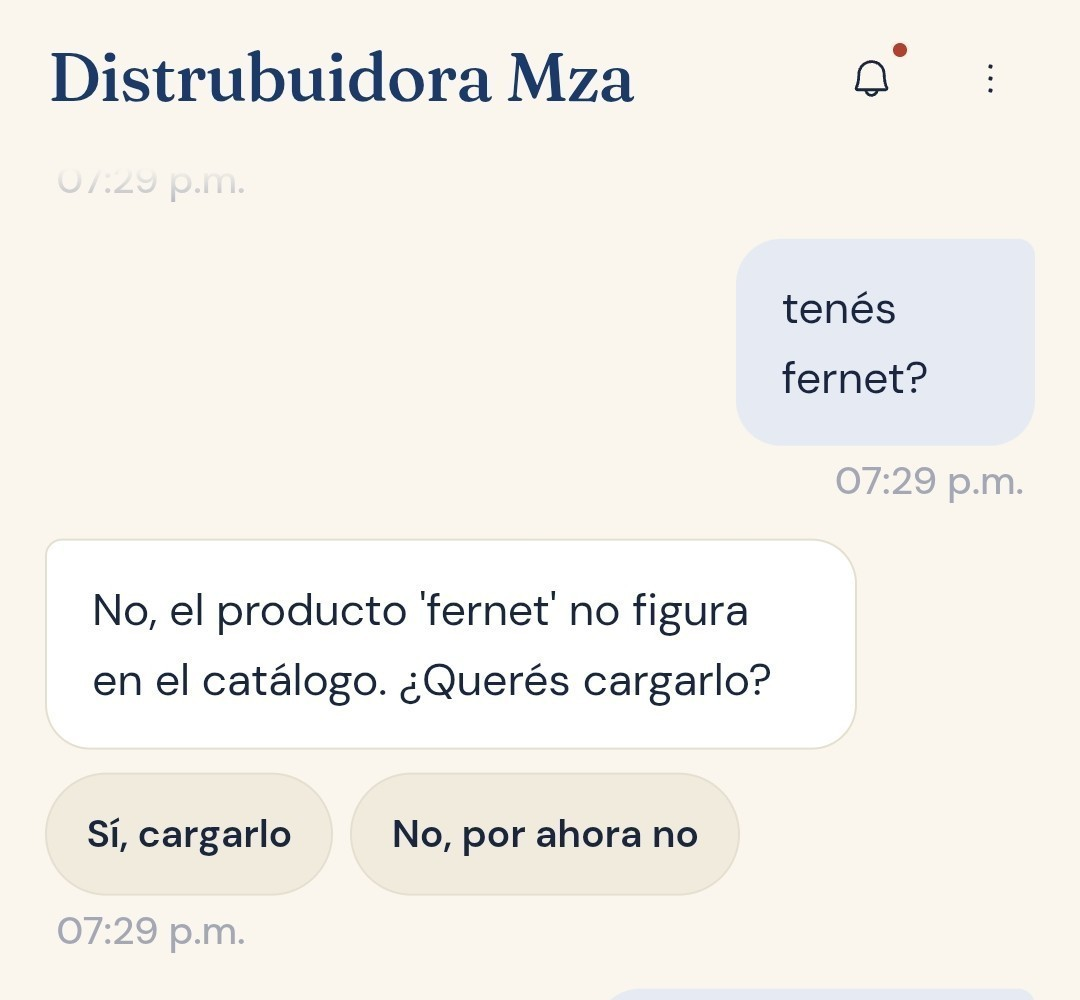
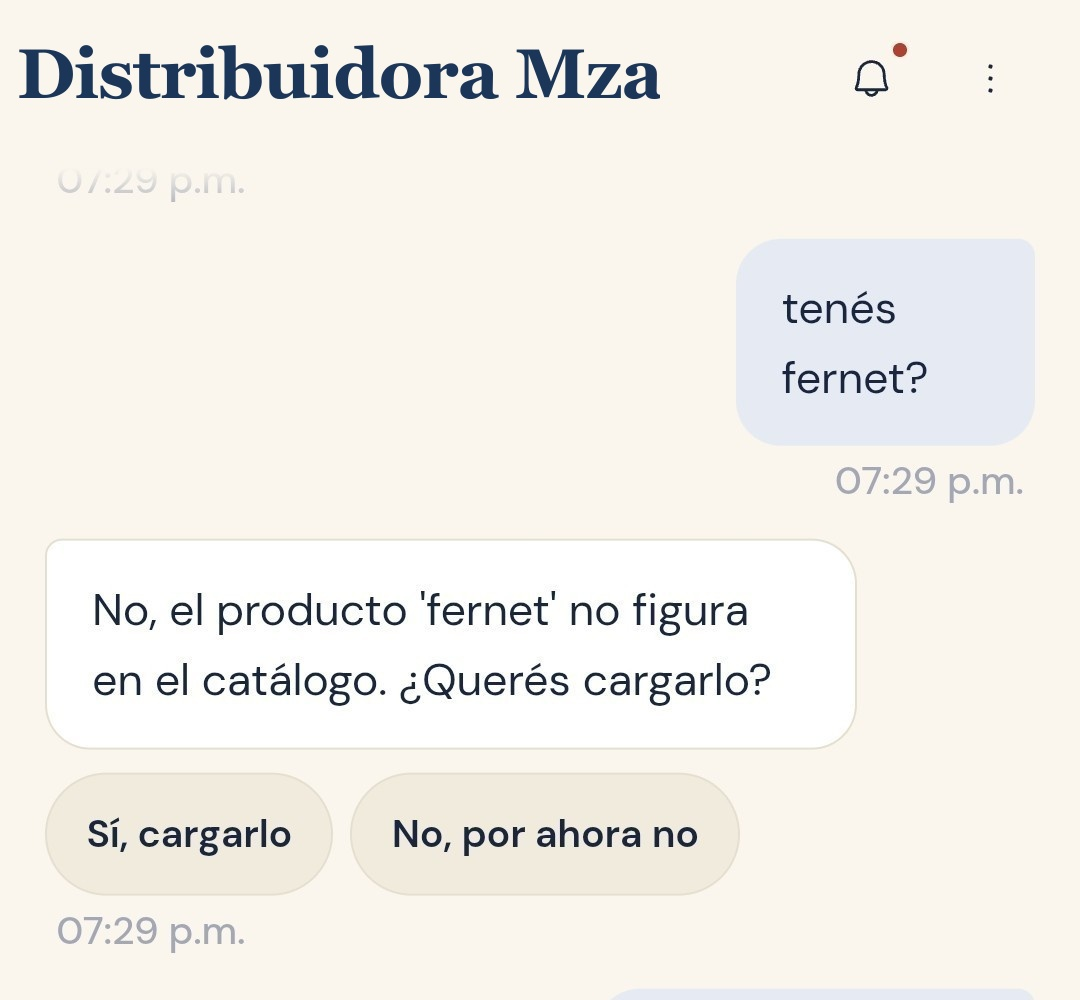
fix(landing): dual-review adversarial fixes — 9 issues resolved
- Fix dead Surfaces CTA: Velora App card now triggers Google sign-in
- Gemini consistency in taglineStrong, FAQ answer #2, Surfaces sub
- Language switcher visible on mobile (remove hidden md:block wrapper)
- html lang dynamic from NEXT_LOCALE cookie; /en route sets cookie + redirects
- EN hero imageAlt added; integraciones sub adds AR screenshot context
- First integraciones card gets priority/eager load
- Steps component wired into LandingPage
- Typography floor: LanguageSwitcher and Surfaces badges raised to 0.875rem
- Hero image typo: "Distrubuidora" → "Distribuidora" via sharp composite

Changed region(s): [[0.0, 0.031, 0.6111, 0.124]]

diff --git a/src/components/landing/Surfaces.tsx b/src/components/landing/Surfaces.tsx
@@ -7,9 +7,12 @@ export type SurfaceEntry = {
   badge: string;
   /** Whether the badge signals availability (true) or coming-soon (false) */
   available: boolean;
-  /** Optional CTA label. When absent, no link is rendered. */
+  /** Optional CTA label. When absent, no button is rendered. */
   ctaLabel?: string;
-  /** Optional href. Required when ctaLabel is set. */
+  /**
+   * Optional href (legacy, ignored when onSignIn is provided).
+   * Keep for backward compat with copy objects that still set ctaHref: "#".
+   */
   ctaHref?: string;
 };
 
@@ -28,8 +31,17 @@ export type SurfacesCopy = {
  * "3 surfaces" section — Standalone app, ChatGPT connector, Claude / Cowork
  * connector. Equal visual weight for each; no hierarchy between them.
  * Status badge ("Disponible" / "Próximamente") is the only differentiator.
+ *
+ * onSignIn is threaded in so the Velora App card CTA triggers Google sign-in
+ * instead of the dead "#" href.
  */
-export default function Surfaces({ copy }: { copy: SurfacesCopy }) {
+export default function Surfaces({
+  copy,
+  onSignIn,
+}: {
+  copy: SurfacesCopy;
+  onSignIn?: () => void | Promise<void>;
+}) {
   return (
     <section
       id="superficies"
@@ -66,7 +78,7 @@ export default function Surfaces({ copy }: { copy: SurfacesCopy }) {
         {/* 3 equal cards */}
         <div role="list" className="grid grid-cols-1 gap-6 md:grid-cols-3">
           {copy.entries.map((entry) => (
-            <SurfaceCard key={entry.name} entry={entry} />
+            <SurfaceCard key={entry.name} entry={entry} onSignIn={onSignIn} />
           ))}
         </div>
       </div>
@@ -74,7 +86,13 @@ export default function Surfaces({ copy }: { copy: SurfacesCopy }) {
   );
 }
 
-function SurfaceCard({ entry }: { entry: SurfaceEntry }) {
+function SurfaceCard({
+  entry,
+  onSignIn,
+}: {
+  entry: SurfaceEntry;
+  onSignIn?: () => void | Promise<void>;
+}) {
   return (
     <article
       role="listitem"
@@ -88,7 +106,7 @@ function SurfaceCard({ entry }: { entry: SurfaceEntry }) {
             ? "bg-emerald-50 text-emerald-700 border border-emerald-200"
             : "bg-[color:var(--color-tint)] text-[color:var(--color-ink-60)] border border-[color:var(--color-line)]",
         ].join(" ")}
-        style={{ fontSize: "0.8125rem" }}
+        style={{ fontSize: "0.875rem" }}
       >
         {entry.badge}
       </span>
@@ -109,8 +127,33 @@ function SurfaceCard({ entry }: { entry: SurfaceEntry }) {
         </p>
       </div>
 
-      {/* Optional CTA link */}
-      {entry.ctaLabel && entry.ctaHref && (
+      {/* CTA — button (triggers sign-in) when available + onSignIn provided; plain link otherwise */}
+      {entry.ctaLabel && entry.available && onSignIn ? (
+        <button
+          type="button"
+          onClick={() => onSignIn()}
+          className="inline-flex items-center gap-1.5 self-start font-medium text-[color:var(--color-ink)] underline underline-offset-4 decoration-[color:var(--color-ink-40)] transition-[text-decoration-color] duration-200 hover:decoration-[color:var(--color-ink)]"
+          style={{ fontSize: "0.9375rem" }}
+        >
+          {entry.ctaLabel}
+          <svg
+            aria-hidden
+            width="14"
+            height="14"
+            viewBox="0 0 14 14"
+            fill="none"
+            xmlns="http://www.w3.org/2000/svg"
+          >
+            <path
+              d="M3 7h8M7 3l4 4-4 4"
+              stroke="currentColor"
+              strokeWidth="1.5"
+              strokeLinecap="round"
+              strokeLinejoin="round"
+            />
+          </svg>
+        </button>
+      ) : entry.ctaLabel && entry.ctaHref && entry.ctaHref !== "#" ? (
         <a
           href={entry.ctaHref}
           className="inline-flex items-center gap-1.5 self-start font-medium text-[color:var(--color-ink)] underline underline-offset-4 decoration-[color:var(--color-ink-40)] transition-[text-decoration-color] duration-200 hover:decoration-[color:var(--color-ink)]"
@@ -135,7 +178,7 @@ function SurfaceCard({ entry }: { entry: SurfaceEntry }) {
             />
           </svg>
         </a>
-      )}
+      ) : null}
     </article>
   );
 }

diff --git a/src/components/landing/landing-copy.en.ts b/src/components/landing/landing-copy.en.ts
@@ -19,9 +19,10 @@ export const defaultCopyEn: LandingCopy = {
     verb: "Sell without being there.",
     tagline:
       "Run your business with AI. Sales, stock, payments — all from the chat. Your AI agent team works while you direct.",
-    taglineStrong: "From the Velora App, ChatGPT or Claude.",
+    taglineStrong: "From the Velora App, ChatGPT, Claude or Gemini.",
     ctaLabel: "Start free with Google",
     ctaMicroTrust: "Free in beta · no card",
+    imageAlt: "Velora in use: the owner asks about a product and sees the catalog in the chat",
   },
   benefits: {
     label: "Capabilities",
@@ -58,7 +59,7 @@ export const defaultCopyEn: LandingCopy = {
   surfaces: {
     label: "Where to use it",
     headline: "Use Velora where you already work.",
-    sub: "Three entry points, the same business. Pick the one that fits how you operate today — without losing anything.",
+    sub: "Three entry points, the same business. Pick the one that fits how you operate today — without losing anything. Gemini already operates Velora directly via MCP — see Integrations.",
     entries: [
       {
         name: "Velora App",
@@ -110,7 +111,7 @@ export const defaultCopyEn: LandingCopy = {
   integraciones: {
     title: "Integrations",
     headline: "Velora lives inside your AI.",
-    sub: "Claude, ChatGPT or Gemini operate Velora through the open MCP standard. The same business, run from any AI.",
+    sub: "Claude, ChatGPT or Gemini operate Velora through the open MCP standard. The same business, run from any AI. Screenshots are from the live product running in Argentina (Spanish-language UI).",
     endpoint: "Connect your agent to tools.somosvelora.com/api/mcp",
     cards: [
       {
@@ -149,7 +150,7 @@ export const defaultCopyEn: LandingCopy = {
       },
       {
         q: "Where can I use Velora?",
-        a: "From three surfaces: the Velora App (available now, sign in with Google), or as a toolkit inside ChatGPT or Claude via the MCP standard (coming soon to each platform's directory). Same business from any of the three.",
+        a: "From three surfaces: the Velora App (available now, sign in with Google), or as a toolkit inside ChatGPT or Claude via the MCP standard (coming soon to each platform's directory). Gemini connects today directly via the MCP endpoint — no directory needed. Same business from any of the three.",
       },
       {
         q: "Are the chat widgets real?",

diff --git a/src/app/layout.tsx b/src/app/layout.tsx
@@ -1,6 +1,7 @@
 import type { Metadata, Viewport } from "next";
 import { Fraunces, DM_Sans, JetBrains_Mono } from "next/font/google";
 import { SessionProvider } from "next-auth/react";
+import { cookies } from "next/headers";
 import "./globals.css";
 import { ServiceWorkerRegistrar } from "@/components/ServiceWorkerRegistrar";
 import { CapacitorAppLinkHandler } from "@/components/CapacitorAppLinkHandler";
@@ -8,6 +9,7 @@ import { OfflineBanner } from "@/components/OfflineBanner";
 import { THEME_BOOT_SCRIPT } from "@/lib/theme";
 import { NativeAuthBootstrap } from "@/app/_native-bootstrap";
 import { Toaster } from "@/components/ui/sonner";
+import { LOCALE_COOKIE } from "@/app/_landing/i18n";
 
 const fraunces = Fraunces({
   subsets: ["latin"],
@@ -87,17 +89,20 @@ export const viewport: Viewport = {
   viewportFit: "cover",
 };
 
-export default function RootLayout({
+export default async function RootLayout({
   children,
 }: Readonly<{
   children: React.ReactNode;
 }>) {
+  // Derive html[lang] from the NEXT_LOCALE cookie so screen readers and
+  // browser translation get the correct language signal.
+  // Default: es-AR (Argentine target market). Cookie=en → lang="en".
+  const cookieJar = await cookies();
+  const localeCookie = cookieJar.get(LOCALE_COOKIE)?.value ?? null;
+  const htmlLang = localeCookie === "en" ? "en" : "es-AR";
+
   return (
-    // lang="es-AR" is the primary locale. The site also serves English at the same URL
-    // (single-URL bilingual). Changing to a dynamic per-request lang would require
-    // i18n routing — deferred. The hreflang alternates in metadata.alternates.languages
-    // already tell crawlers about the en variant.
-    <html lang="es-AR" suppressHydrationWarning className={`${fraunces.variable} ${dmSans.variable} ${jetbrainsMono.variable}`}>
+    <html lang={htmlLang} suppressHydrationWarning className={`${fraunces.variable} ${dmSans.variable} ${jetbrainsMono.variable}`}>
       <head>
         {/* Sets data-theme="dark" on <html> before first paint — no FOUC.
             Mirrors src/lib/theme.ts logic; keep them in sync. */}

diff --git a/src/components/landing/landing-copy.ts b/src/components/landing/landing-copy.ts
@@ -43,7 +43,7 @@ export const defaultCopy: LandingCopy = {
     verb: "Vendé sin estar.",
     tagline:
       "Manejá tu negocio con IA. Ventas, stock, cobros — todo desde el chat. Tu equipo de agentes de IA trabaja mientras vos dirigís.",
-    taglineStrong: "Desde la Velora App, ChatGPT o Claude.",
+    taglineStrong: "Desde la Velora App, ChatGPT, Claude o Gemini.",
     ctaLabel: "Empezá con Google",
     ctaMicroTrust: "Gratis en beta · sin tarjeta",
   },
@@ -82,7 +82,7 @@ export const defaultCopy: LandingCopy = {
   surfaces: {
     label: "Dónde usarlo",
     headline: "Usá Velora donde ya trabajás.",
-    sub: "Tres puntos de entrada, el mismo negocio. Elegís el que se ajusta a cómo operás hoy — sin perder nada.",
+    sub: "Tres puntos de entrada, el mismo negocio. Elegís el que se ajusta a cómo operás hoy — sin perder nada. Gemini ya opera Velora directo vía MCP — miralo en Integraciones.",
     entries: [
       {
         name: "Velora App",
@@ -174,7 +174,7 @@ export const defaultCopy: LandingCopy = {
       },
       {
         q: "¿Desde dónde puedo usar Velora?",
-        a: "Desde tres superficies: la Velora App (disponible ahora, entrás con Google), o como toolkit dentro de ChatGPT o Claude vía el estándar MCP (próximamente en el directorio de cada plataforma). El mismo negocio desde cualquiera de las tres.",
+        a: "Desde tres superficies: la Velora App (disponible ahora, entrás con Google), o como toolkit dentro de ChatGPT o Claude vía el estándar MCP (próximamente en el directorio de cada plataforma). Gemini ya se conecta hoy directamente al endpoint MCP — sin necesidad de directorio. El mismo negocio desde cualquiera de las tres.",
       },
       {
         q: "¿Los widgets del chat son reales?",

diff --git a/src/components/landing/Integraciones.tsx b/src/components/landing/Integraciones.tsx
@@ -78,8 +78,8 @@ export default function Integraciones({ copy }: { copy: IntegracionesCopy }) {
 
         {/* Integration cards */}
         <div className="grid grid-cols-1 gap-6 md:grid-cols-3">
-          {copy.cards.map((card) => (
-            <IntegrationTile key={card.imageSrc} card={card} />
+          {copy.cards.map((card, i) => (
+            <IntegrationTile key={card.imageSrc} card={card} priority={i === 0} />
           ))}
         </div>
 
@@ -108,7 +108,7 @@ export default function Integraciones({ copy }: { copy: IntegracionesCopy }) {
   );
 }
 
-function IntegrationTile({ card }: { card: IntegrationCard }) {
+function IntegrationTile({ card, priority = false }: { card: IntegrationCard; priority?: boolean }) {
   return (
     <article className="group overflow-hidden rounded-2xl border border-[color:var(--color-line)] bg-[color:var(--color-tint)] transition-shadow duration-300 hover:shadow-[0_8px_32px_-8px_rgba(27,58,107,.18)]">
       {/* Screenshot area — matches the source JPG ratio (1080x2098) so the WHOLE
@@ -126,6 +126,8 @@ function IntegrationTile({ card }: { card: IntegrationCard }) {
             alt={card.imageAlt}
             fill
             sizes="(max-width: 768px) 100vw, 33vw"
+            // priority on the first card: above-the-fold on mobile, prevents white-box flash.
+            priority={priority}
             // object-top: anchor the (tall portrait) screenshot to its TOP so the
             // start of the chat is visible, not a center crop that cuts the top off.
             className="object-cover object-top"

diff --git a/src/components/landing/LanguageSwitcher.tsx b/src/components/landing/LanguageSwitcher.tsx
@@ -44,7 +44,7 @@ export default function LanguageSwitcher({
       {SUPPORTED.map((locale, i) => (
         <span key={locale} className="flex items-center">
           {i > 0 && (
-            <span aria-hidden className="mx-1 text-[color:var(--color-ink-40)] text-xs select-none">
+            <span aria-hidden className="mx-1 text-[color:var(--color-ink-40)] select-none" style={{ fontSize: "0.875rem" }}>
               /
             </span>
           )}
@@ -53,11 +53,12 @@ export default function LanguageSwitcher({
             onClick={() => switchTo(locale)}
             aria-current={locale === currentLocale ? "true" : undefined}
             className={[
-              "text-[0.8125rem] transition-colors duration-200",
+              "transition-colors duration-200",
               locale === currentLocale
                 ? "font-semibold text-[color:var(--color-ink)] cursor-default"
                 : "text-[color:var(--color-ink-60)] hover:text-[color:var(--color-ink)]",
             ].join(" ")}
+            style={{ fontSize: "0.875rem" }}
           >
             {locale === "es-AR" ? labels.es : labels.en}
           </button>

diff --git a/src/app/en/route.ts b/src/app/en/route.ts
@@ -1,0 +1,18 @@
+// /en route — sets NEXT_LOCALE=en cookie and redirects to / so the landing page
+// renders in English. Idiomatic Next.js App Router route handler (no client JS).
+//
+// Pattern: https://nextjs.org/docs/app/building-your-application/routing/route-handlers
+// Cookie-based i18n: https://nextjs.org/docs/app/building-your-application/routing/internationalization
+
+import { NextResponse } from "next/server";
+import { LOCALE_COOKIE } from "@/app/_landing/i18n";
+
+export function GET(): NextResponse {
+  const res = NextResponse.redirect(new URL("/", process.env.NEXTAUTH_URL ?? "https://somosvelora.com"), 307);
+  res.cookies.set(LOCALE_COOKIE, "en", {
+    path: "/",
+    maxAge: 60 * 60 * 24 * 365, // 1 year
+    sameSite: "lax",
+  });
+  return res;
+}

diff --git a/src/components/landing/LandingPage.tsx b/src/components/landing/LandingPage.tsx
@@ -1,6 +1,7 @@
 import Header from "./Header";
 import Hero from "./Hero";
 import Benefits from "./Benefits";
+import Steps from "./Steps";
 import Surfaces from "./Surfaces";
 import Widgets from "./Widgets";
 import QuietRow from "./QuietRow";
@@ -40,8 +41,9 @@ export default function LandingPage({
       <Header copy={copy.header} locale={locale} onSignIn={onSignIn} />
       <main id="main-content">
         <Hero copy={copy.hero} onSignIn={onSignIn} />
+        <Steps copy={copy.steps} />
         <Benefits copy={copy.benefits} />
-        <Surfaces copy={copy.surfaces} />
+        <Surfaces copy={copy.surfaces} onSignIn={onSignIn} />
         <Widgets copy={copy.widgets} />
         <Integraciones copy={copy.integraciones} />
         <FAQ copy={copy.faq} />

diff --git a/src/components/landing/Header.tsx b/src/components/landing/Header.tsx
@@ -71,9 +71,7 @@ export default function Header({
             ))}
           </nav>
           {copy.switcher && locale && (
-            <div className="hidden md:block">
-              <LanguageSwitcher currentLocale={locale} labels={copy.switcher} />
-            </div>
+            <LanguageSwitcher currentLocale={locale} labels={copy.switcher} />
           )}
           {copy.cta && onSignIn && (
             <button
